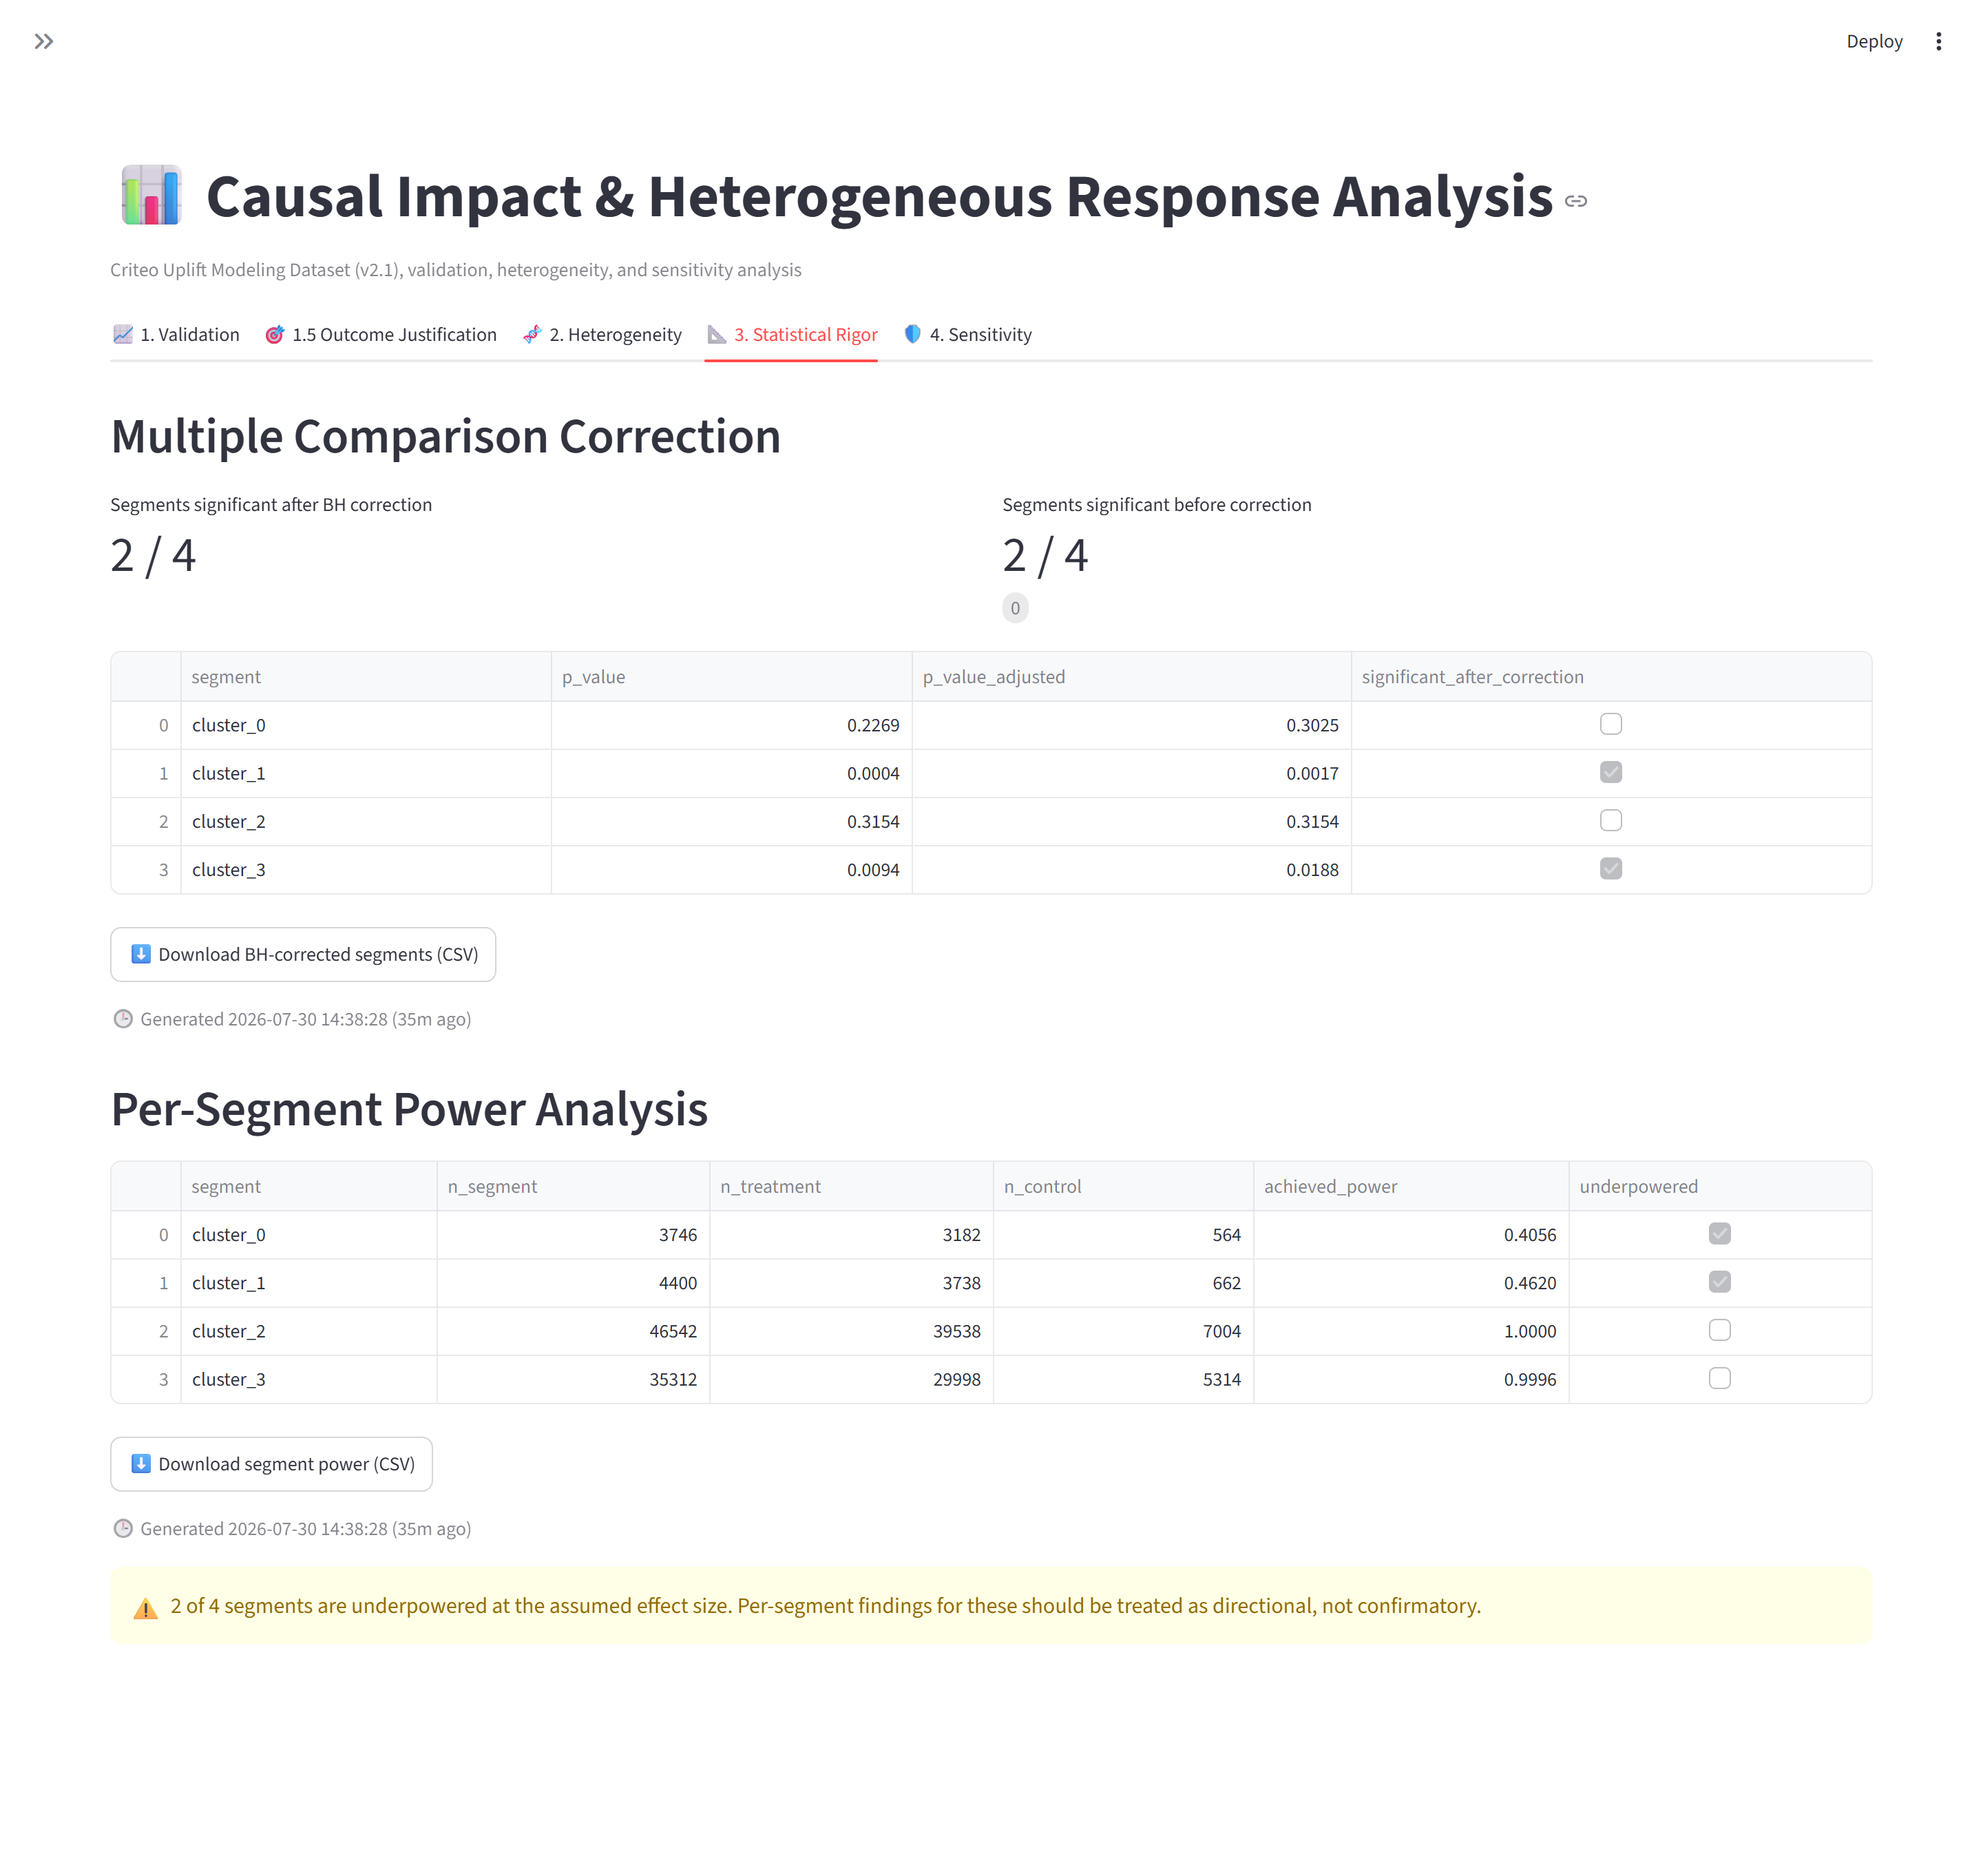
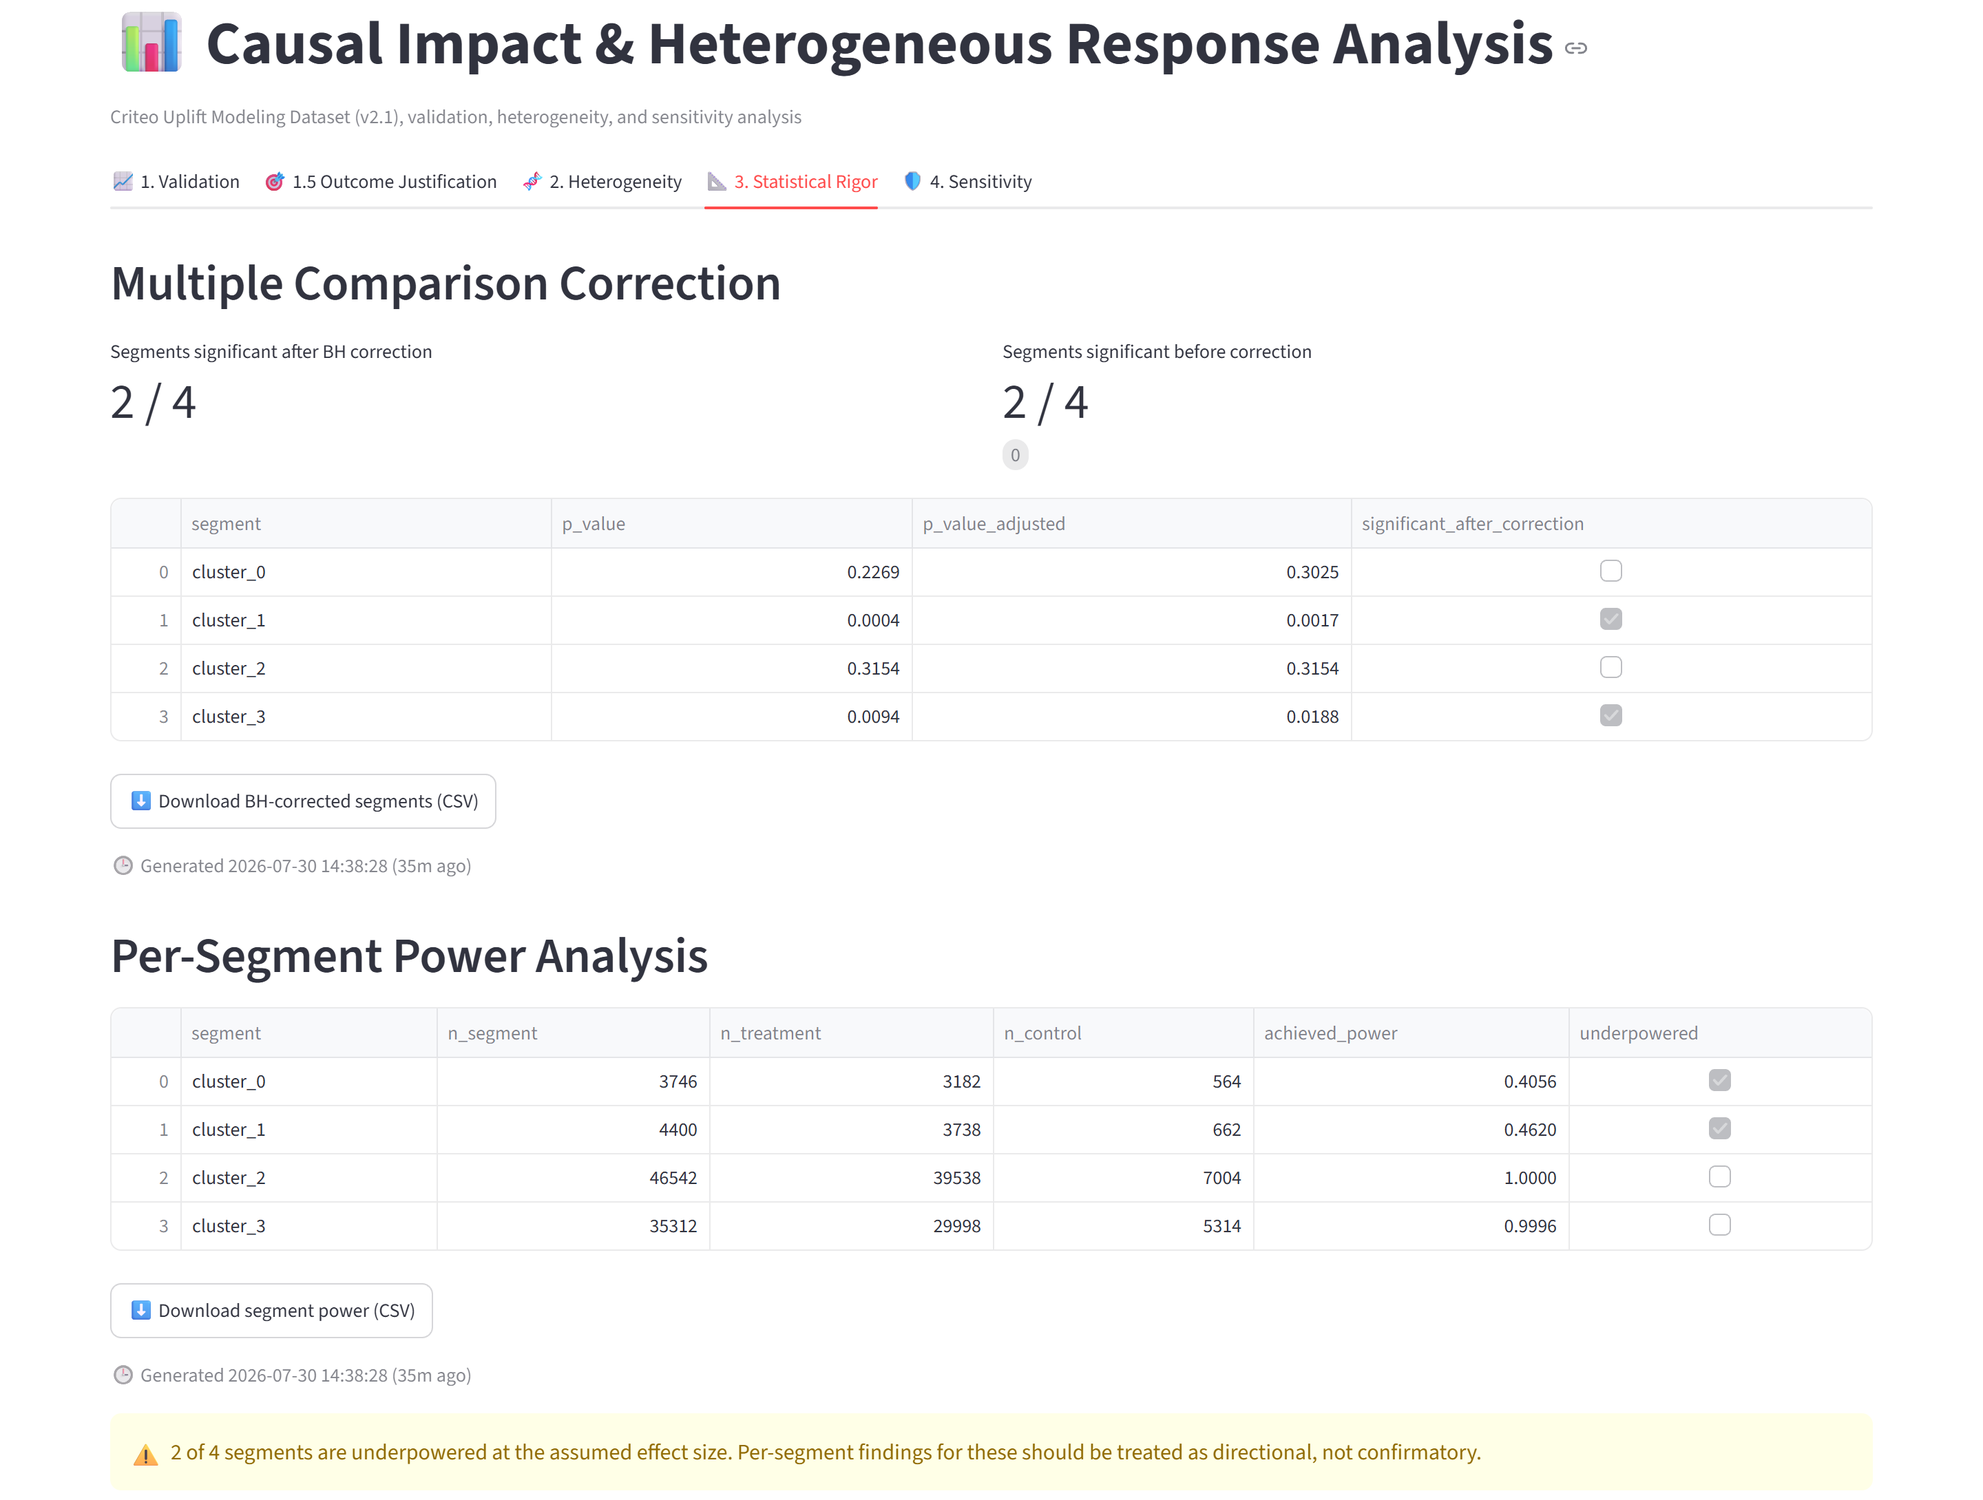
Updates in README.md

diff --git a/README.md b/README.md
@@ -20,45 +20,55 @@ Every method here serves that narrative. Nothing was added just to check a skill
 
 ## Dashboard Preview
 
-Screenshots from `streamlit run dashboard/app.py`, one per pipeline section.
+Click any screenshot to view it full size.
 
-<p align="center">
-  <img src="assets/01_validation.png" width="800" alt="Validation tab: bias-severity curve and covariate balance diagnostics">
-  <br>
-  <sub><b>Section 1 — Validation.</b> Bias-severity curve across confounding severities against the ground-truth ATE, plus post-matching covariate balance.</sub>
-</p>
+<table>
+<tr>
+<td align="center" width="50%">
+<a href="assets/01_validation.png">
+<img src="assets/01_validation.png" width="100%" alt="Validation">
+</a>
+<br><b>1. Validation</b><br>
+<sub>Bias-severity curve and covariate balance diagnostics.</sub>
+</td>
 
-<br>
+<td align="center" width="50%">
+<a href="assets/05_outcome_justification.png">
+<img src="assets/05_outcome_justification.png" width="100%" alt="Outcome Justification">
+</a>
+<br><b>1.5. Outcome Justification</b><br>
+<sub>Minimum detectable effect comparison.</sub>
+</td>
+</tr>
 
-<p align="center">
-  <img src="assets/05_outcome_justification.png" width="800" alt="Outcome Justification tab: MDE comparison between visit and conversion">
-  <br>
-  <sub><b>Section 1.5 — Outcome Justification.</b> Live MDE calculation showing why <code>visit</code>, not <code>conversion</code>, is used for segment-level work.</sub>
-</p>
+<tr>
+<td align="center">
+<a href="assets/02_heterogeneity.png">
+<img src="assets/02_heterogeneity.png" width="100%" alt="Heterogeneity">
+</a>
+<br><b>2. Heterogeneity</b><br>
+<sub>Segment-level CATE estimates and Qini evaluation.</sub>
+</td>
 
-<br>
+<td align="center">
+<a href="assets/03_statistical_rigor.png">
+<img src="assets/03_statistical_rigor.png" width="100%" alt="Statistical Rigor">
+</a>
+<br><b>3. Statistical Rigor</b><br>
+<sub>Multiple testing correction and power analysis.</sub>
+</td>
+</tr>
 
-<p align="center">
-  <img src="assets/02_heterogeneity.png" width="800" alt="Heterogeneity tab: segment-level CATE breakdown and Qini curve">
-  <br>
-  <sub><b>Section 2 — Heterogeneity.</b> Per-segment treatment effects with bootstrap CIs, and the Qini curve evaluating CATE model quality.</sub>
-</p>
-
-<br>
-
-<p align="center">
-  <img src="assets/03_statistical_rigor.png" width="800" alt="Statistical Rigor tab: Benjamini-Hochberg correction and per-segment power analysis">
-  <br>
-  <sub><b>Section 3 — Statistical Rigor.</b> Benjamini-Hochberg correction across segments, and per-segment power analysis flagging underpowered clusters.</sub>
-</p>
-
-<br>
-
-<p align="center">
-  <img src="assets/04_sensitivity.png" width="800" alt="Sensitivity tab: Rosenbaum bounds and LLM diagnostic critique">
-  <br>
-  <sub><b>Section 4 — Sensitivity.</b> Rosenbaum bounds on the PSM matched pairs, critical Gamma, and the bounded LLM diagnostic critique.</sub>
-</p>
+<tr>
+<td align="center" colspan="2">
+<a href="assets/04_sensitivity.png">
+<img src="assets/04_sensitivity.png" width="70%" alt="Sensitivity">
+</a>
+<br><b>4. Sensitivity Analysis</b><br>
+<sub>Rosenbaum bounds and diagnostic critique.</sub>
+</td>
+</tr>
+</table>
 
 ---
 
